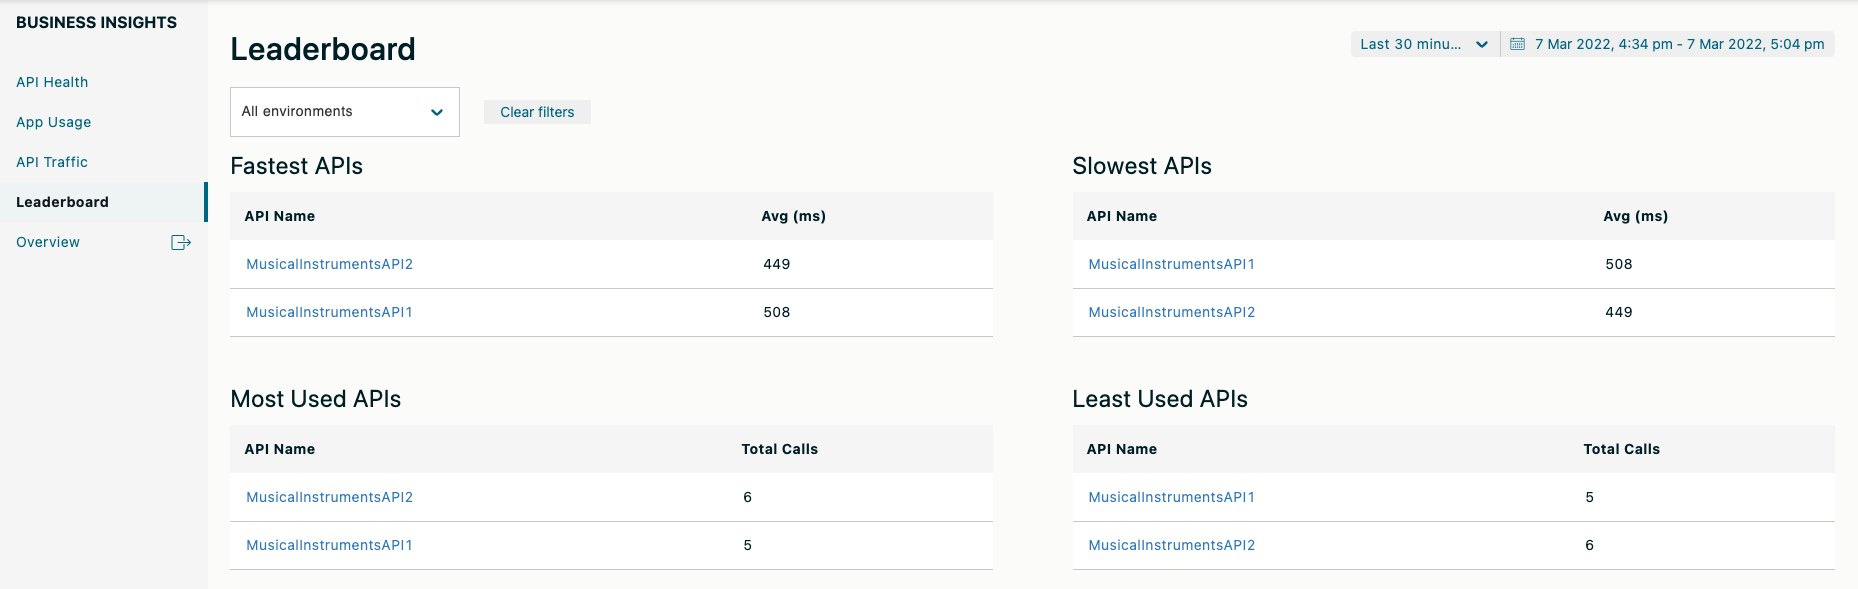
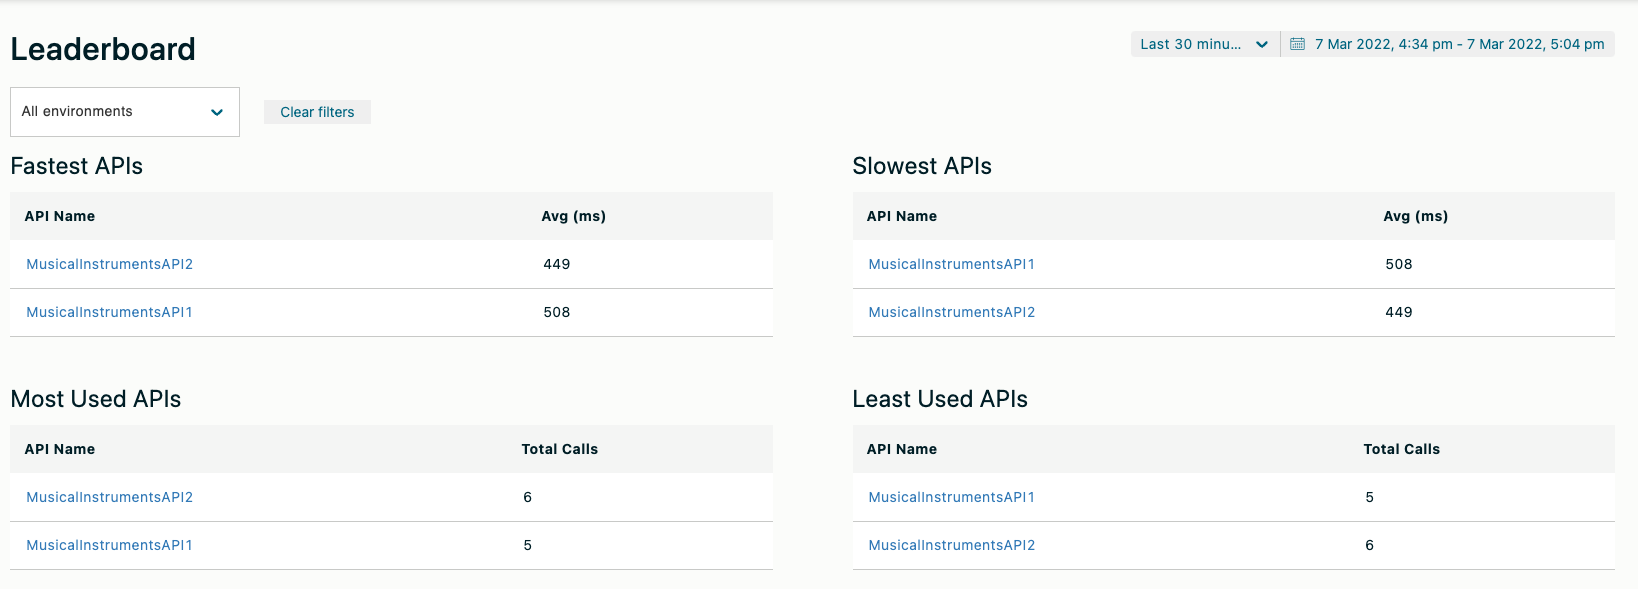
Added the Subscriptions dashboard to Business Insights (#194)
* added the Subscriptions dashboard to Business Insights

* cropped out left navigation from images

* removed products from the subscripton list as it does not apply

* spelled out the number of months

diff --git a/content/en/docs/get_actionable_insights/_index.md b/content/en/docs/get_actionable_insights/_index.md
@@ -88,6 +88,18 @@ Click an item in the API traffic list to view its transaction details, including
 
  Headers can be redacted and sanitized based on the agent configuration reporting the data. Refer to [Trace redaction](/docs/connect_manage_environ/connected_agent_common_reference/trace_redaction/) for details.
 
+## Subscriptions
+
+Click **Subscriptions** to see a list of the consumer team with their subscriptions in their Marketplace to verify subscription usage.
+
+{{% alert title="Note" color="primary" %}} The Subscription page is available to providers with an active Marketplace subscription.{{% /alert %}}
+
+![Example of Subscriptions](/Images/central/subscriptions.png)
+
+You can filter by consuming team, product, resource (API), subscriptions, and time range in three month increments (last 3 months, 4 to 6 months, 7 to 9 months, and 10 to 12 months).
+
+Click an individual item to see quota and last three-month usage by each resource and plan in that subscription.
+
 ## Leaderboard
 
 Click **Leaderboard** to view the following aspects about the APIs in your organization:

diff --git a/content/en/docs/manage_marketplace/consumer_experience/consumer_insights.md b/content/en/docs/manage_marketplace/consumer_experience/consumer_insights.md
@@ -88,6 +88,6 @@ Click **Subscriptions** to see a list of the products and its subscription in yo
 
 ![Subscriptions example](/Images/marketplace/consumer_experience/ci_subscriptions.png)
 
-You can filter by products, subscriptions, and select a time range in 3 month increments (last 3 months, 4 to 6 months, 7 to 9 months, and 10 to 12 months).
+You can filter by products, subscriptions, and time range in three month increments (last 3 months, 4 to 6 months, 7 to 9 months, and 10 to 12 months).
 
 Click an individual item to see quota and last three-month usage by each resource and plan in that subscription.
